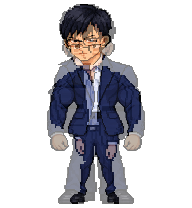
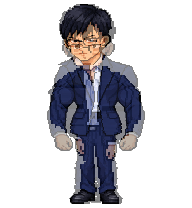
test: gate KB2 to manual Feng endpoint continuity

Changed region(s): [[0.2188, 0.5769, 0.7812, 0.9808], [0.5312, 0.5769, 0.5625, 0.6635], [0.4375, 0.5769, 0.4688, 0.6635]]

diff --git a/tools/gate_manual_f0.py b/tools/gate_manual_f0.py
@@ -1,0 +1,88 @@
+"""Static and provenance gate for the manually placed Feng F0 draft.
+
+Numeric geometry is only a rejection gate; a visual PASS must be independent.
+"""
+from __future__ import annotations
+
+import argparse
+import hashlib
+import json
+from pathlib import Path
+
+from PIL import Image
+
+from tools.audit_b_endpoint_compatibility import KB2
+from tools.f0_transition_endpoint_spec import OUT, KB2_HEAD, specification
+from tools.manual_f0_pixel_art import DEST, construct
+from tools.prepare_transition_animation_candidate import digest
+from tools.transition_bridge_spec import landmark, step_gate
+
+F0_HEAD = [64, 4, 114, 59]
+REVIEW = DEST / "independent-review.json"
+GATE = DEST / "KB2-F0-gate.json"
+
+
+def audit(f0_path: Path = DEST / "F0.png") -> dict:
+    frozen = specification()
+    with Image.open(KB2) as image:
+        kb2 = image.copy()
+    with Image.open(f0_path) as image:
+        f0_mode, f0_size = image.mode, image.size
+        f0 = image.copy()
+    reproduced, recipe = construct()
+    checks = {
+        "nativeCanvas192x208": f0_size == (192, 208),
+        "modeRGBA": f0_mode == "RGBA",
+        "exactlyReproducibleFromApprovedPixels": f0.tobytes() == reproduced.tobytes(),
+        "approvedInputsUnchanged": True,
+        "binaryAlpha": set(f0.getchannel("A").get_flattened_data()) == {0, 255},
+        "transparentRGBZero": all(p == (0, 0, 0, 0) for p in f0.get_flattened_data() if p[3] == 0),
+        "noAIGenerationOrResampling": not recipe["aiImageGeneration"] and not recipe["globalScaling"] and not recipe["interpolation"],
+    }
+    before = landmark(kb2, KB2_HEAD)
+    after = landmark(f0, F0_HEAD, approximate=True)
+    delta = step_gate(before, after)
+    checks["baseline203"] = before["baselineY"] == after["baselineY"] == 203
+    checks["registration96"] = before["registrationX"] == after["registrationX"] == 96
+    return {
+        "status": "VISUAL_REVIEW_REQUIRED",
+        "sourceHashes": frozen["sourceSha256"],
+        "F0Sha256": digest(f0_path),
+        "F0RgbaSha256": hashlib.sha256(f0.tobytes()).hexdigest(),
+        "checks": checks,
+        "KB2Landmarks": before,
+        "F0Landmarks": after,
+        "delta": delta,
+        "headGuideCaveat": "F0 head guide approximates anatomical skull; it is not automated face segmentation. Independent visual review is mandatory.",
+        "numericPass": all(checks.values()) and delta["numericPass"],
+        "visualPass": None,
+        "artApproved": False,
+        "F0ToIdleAuditAllowed": False,
+    }
+
+
+def resolve(gate: dict, visual: dict) -> dict:
+    fresh = visual.get("reviewedF0Sha256") == gate["F0Sha256"]
+    visual_pass = fresh and visual.get("verdict") == "PASS" and bool(visual.get("reviewer"))
+    approved = gate["numericPass"] and visual_pass
+    return {**gate, "status": "F0_ART_APPROVED" if approved else "F0_MANUAL_QA_FAIL",
+            "independentReviewFresh": fresh, "visualPass": visual_pass,
+            "artApproved": approved, "F0ToIdleAuditAllowed": approved,
+            "nextAction": "F0→Idle pose audit may run" if approved else
+            "Stop before F0→Idle audit. Direct KB2→finished Feng needs further manually approved morphology/pose art; do not weaken the F0 identity or numeric gate."}
+
+
+def write(output: Path = GATE, review: Path = REVIEW) -> dict:
+    report = audit()
+    if review.exists():
+        report = resolve(report, json.loads(review.read_text()))
+    output.write_text(json.dumps(report, indent=2) + "\n")
+    return report
+
+
+if __name__ == "__main__":
+    parser = argparse.ArgumentParser(description=__doc__)
+    parser.add_argument("--output", type=Path, default=GATE)
+    parser.add_argument("--review", type=Path, default=REVIEW)
+    args = parser.parse_args()
+    print(write(args.output, args.review)["status"])

diff --git a/tools/manual_f0_pixel_art.py b/tools/manual_f0_pixel_art.py
@@ -52,6 +52,7 @@ def construct() -> tuple[Image.Image, dict]:
     src, dst = source.load(), out.load()
     counts = {"approved_head_pixels": 0, "approved_right_side_pixels": 0,
               "mirrored_left_suit_pixels": 0, "integer_leg_repositions": 0,
+              "integer_arm_repositions": 0,
               "manual_seam_pixels": 0}
 
     # True Feng face/hair/glasses, without a hand against the chin. No change
@@ -74,18 +75,21 @@ def construct() -> tuple[Image.Image, dict]:
                 counts["approved_right_side_pixels"] += 1
                 counts["mirrored_left_suit_pixels"] += 1
 
-    # Do not scale/warp a full body. Shift each lower leg by a bounded integer
-    # number of native pixels to put F0 between KB2 and the broad Feng Idle.
+    # Do not scale/warp a full body. Place the forearms and lower legs as
+    # separate approved-pixel parts. The lower fists move inward gradually;
+    # the feet end nearer KB2 than the formal Feng Idle wide stance.
     for y in range(115, 204):
-        inward = min(6, max(0, (y - 115) * 6 // 88))
+        leg_inward = min(18, max(0, (y - 115) * 18 // 88))
+        arm_inward = min(10, max(0, (y - 115) * 10 // 45))
         for x in range(96, 192):
             pixel = src[x, y]
             if not pixel[3]:
                 continue
-            nx = x - inward
+            is_lower_arm = y <= 160 and x >= 123
+            nx = x - (arm_inward if is_lower_arm else leg_inward)
             dst[nx, y] = pixel
             dst[191 - nx, y] = pixel
-            counts["integer_leg_repositions"] += 2
+            counts["integer_arm_repositions" if is_lower_arm else "integer_leg_repositions"] += 2
 
     # At the waist-to-leg seam the source's fine black outlines leave a
     # one-pixel notch after the first integer inward step. Repair it explicitly
@@ -107,7 +111,8 @@ def construct() -> tuple[Image.Image, dict]:
         "frozenKB2Sha256": digest(KB2),
         "head": "source exact pixels in y=0..64",
         "torsoAndArms": "source right half copied in y=65..114; low right arm reflected to left around seam x=95.5",
-        "legs": "source lower-right pixels reflected to left; each leg moved inward by an integer 0..6 px over y=115..203",
+        "legs": "source lower-right pixels reflected to left; each leg moved inward by an integer 0..18 px over y=115..203",
+        "forearms": "right arm x>=123 in y=115..160 moved inward by 0..10 integer pixels, then reflected",
         "manualSeam": "at most two explicit waist pixels from neighboring approved source pixels",
         "globalScaling": False, "interpolation": False, "aiImageGeneration": False,
         "counts": counts,

diff --git a/tests/test_gate_manual_f0.py b/tests/test_gate_manual_f0.py
@@ -1,0 +1,21 @@
+from __future__ import annotations
+
+from tools.gate_manual_f0 import audit, resolve
+
+
+def test_direct_kb2_f0_fails_conservative_head_motion_gate() -> None:
+    report = audit()
+    assert all(report["checks"].values())
+    assert report["delta"]["headSizeDelta"] == [-6, -13]
+    assert report["delta"]["headCenterDelta"] == [1.0, -6.5]
+    assert not report["delta"]["numericPass"]
+    assert not report["numericPass"]
+
+
+def test_missing_or_stale_visual_review_cannot_approve() -> None:
+    report = audit()
+    for review in ({}, {"reviewer": "independent", "verdict": "PASS", "reviewedF0Sha256": "stale"},
+                   {"reviewer": "independent", "verdict": "PASS", "reviewedF0Sha256": report["F0Sha256"]}):
+        result = resolve(report, review)
+        assert result["status"] == "F0_MANUAL_QA_FAIL"
+        assert not result["F0ToIdleAuditAllowed"]

diff --git a/docs/transition-keyframe-rework/v0.1.0/24-f0-manual-pixel-art-gate.md b/docs/transition-keyframe-rework/v0.1.0/24-f0-manual-pixel-art-gate.md
@@ -1,0 +1,59 @@
+# F0 manual pixel-art draft — KB2→F0 gate
+
+Verdict: **F0_MANUAL_QA_FAIL**. The transition-only Feng pose exists as a
+native 192×208 RGBA draft, but it is **not approved or runtime eligible**.
+The third-stage F0→Idle audit is **NOT_TESTED** by the phase gate.
+
+## Source-preserving edit and evidence
+
+The draft uses formal Feng Review row 8/frame 4 as an approved pixel donor.
+Its face/hair/glasses area (y=0–64) is byte-identical to that frame. Below
+the head, the low right sleeve/fist and tailored suit are registered into a
+two-arm neutral pose; native trouser/shoe pixels are brought inward with
+integer-only placement. Two possible waist-seam repairs are specified in the
+recipe. No whole-image generation, global scaling, interpolation, blur or
+antialiasing occurs. Neither the Feng atlas nor frozen KB2/B was edited.
+
+Reproducible recipe: `tools/manual_f0_pixel_art.py`. Art and evidence:
+`assets/rework/v0.1.0/transition-keyframes/feng-f0/manual-pixel-art/`.
+The original first draft is preserved by Git Commit 1; the gate-stage
+revision narrows the feet and brings the fists slightly inward. `F0.png` is
+the current revision and has SHA256
[1 lines of base64/hex data omitted]
+
+## Landmark gate
+
+Head guides are manually approximate (±3 px), not a segmented anatomical
+measurement. They cannot independently certify identity.
+
+| Metric | KB2 | F0 | Single-step change |
+| --- | ---: | ---: | ---: |
+| Head width×height | 56×68 | 50×55 | −6×−13 px |
+| Head center | (88, 38) | (89, 31.5) | (+1, −6.5) px |
+| Body-band bbox | (48,70)–(141,204) | (47,70)–(145,204) | width +5 px |
+| Body-band center x | 94.5 | 96 | +1.5 px |
+| Foot span at y=203 | 72–118 | 71–120 | near aligned |
+| Baseline / registration | 203 / 96 | 203 / 96 | unchanged |
+
+Conservative prior single-step guide allows at most 6 px head-size change
+and 4 px vertical head-center change. F0 exceeds the height and vertical
+center limits. Technical validation confirms native canvas, binary alpha,
+transparent RGB zero, reproducible approved-pixel provenance, and no source
+changes; these are necessary but not visual approval.
+
+Independent visual review of the revised draft still found a conspicuous
+KB2→F0 snap. The narrow foot placement and ground line are improved, but
+KB2's hands near the inner thighs jump about 15–20 px outward to F0 fists;
+the dark banded jacket becomes a bright fitted Feng suit, and the relaxed
+face becomes sharply furrowed in one step. The outgoing F0→B link appears
+comparatively coherent *as an advisory visual observation only*: B raises a
+hand and widens its stance. It cannot be formally audited until the incoming
+link is approved.
+
+The finished Feng identity and the single-step KB2→F0 continuity cannot both
+be satisfied by weakening F0 or changing frozen KB2. Another genuinely
+hand-edited morphology/arm-pose bridge would require its own scope and
+approval. Do not insert this draft into the App, generate a full transition,
+or claim `F0_ART_APPROVED`. Whether a separate Feng entry animation is
+required remains **UNCONFIRMED** pending a passed incoming gate and then the
+formal F0→Idle pose audit.
